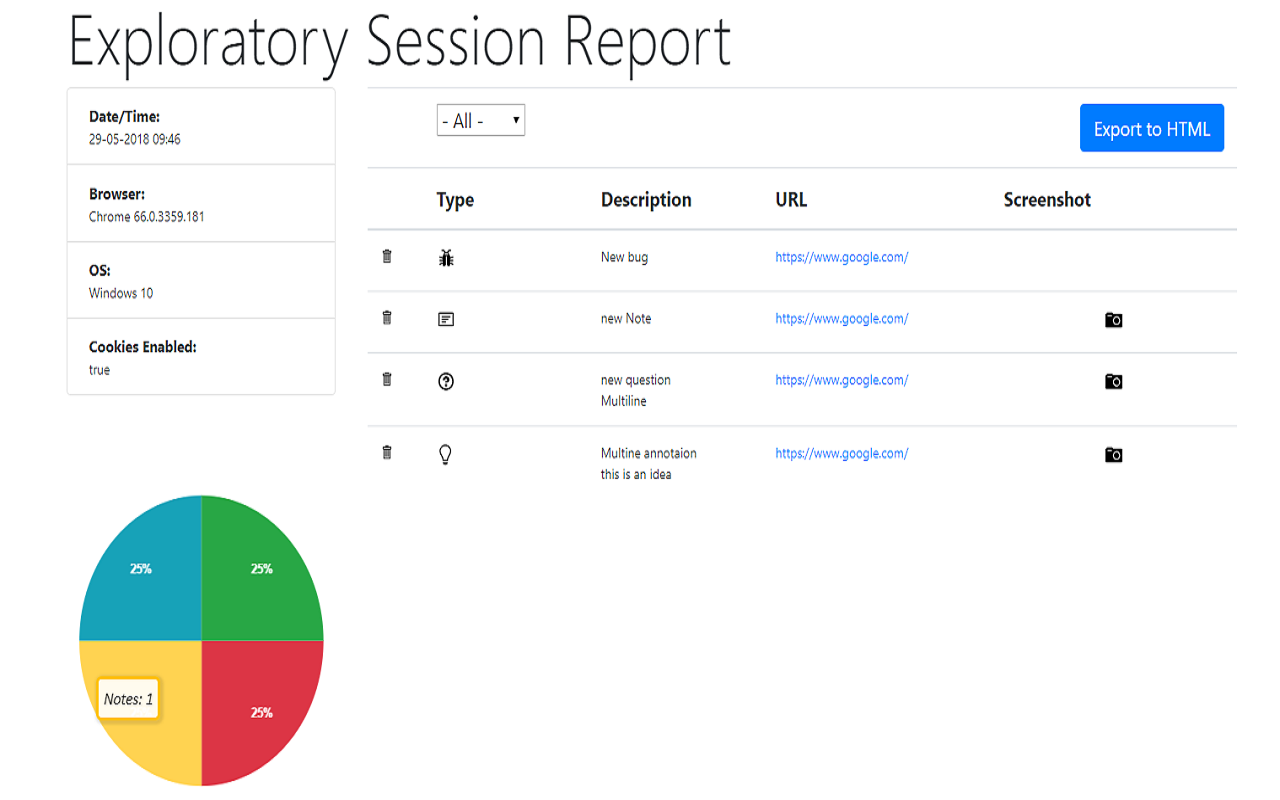
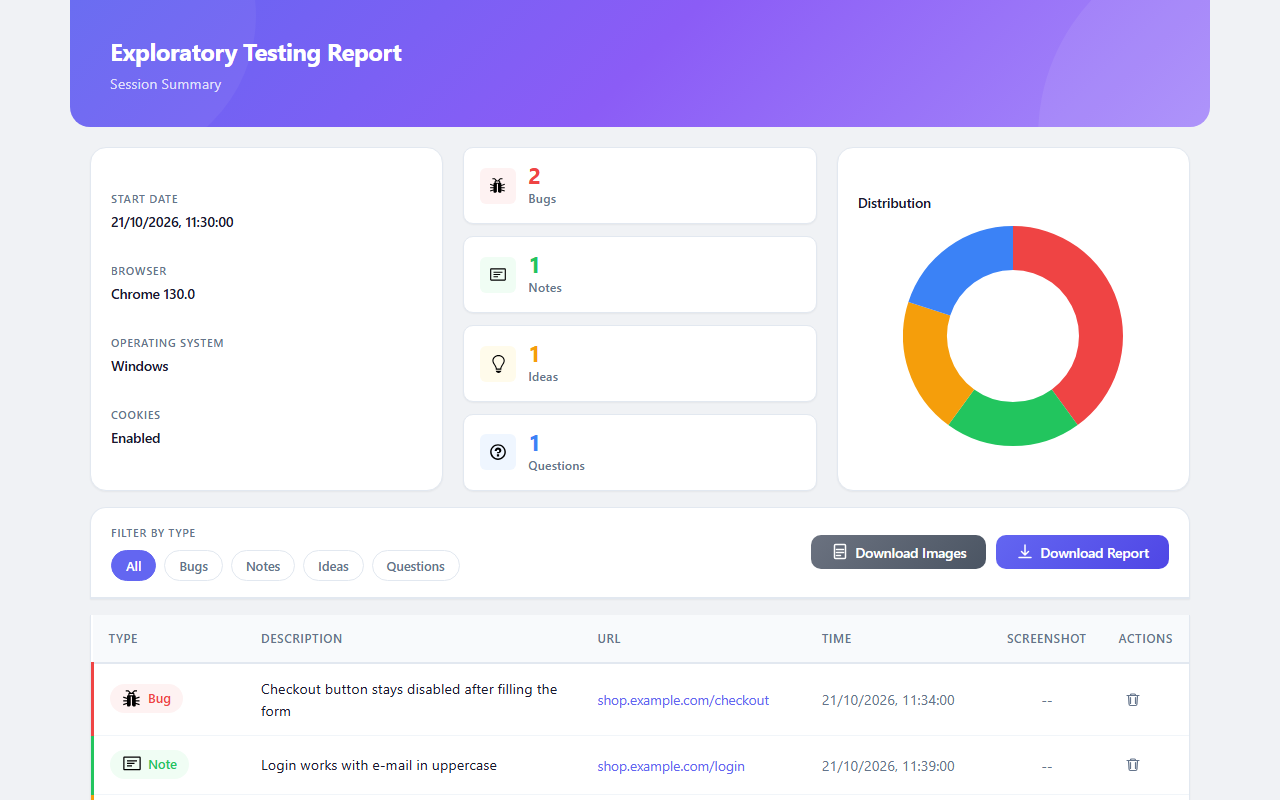
docs: document tutorial upkeep, refresh README and bump to 4.2.0
- AGENTS.md: add Tutorial section and the rule to update the tutorial
  whenever a user-facing feature changes; update definition of done.
- README: current feature list, refreshed screenshots, accurate dev
  and test instructions.
- Package tutorial.html in genetareZip.ps1 and add tutorial.spec.js to
  the e2e:all and e2e:ci scripts.
- Bump manifest version 4.1.1 -> 4.2.0 for the Web Store.

diff --git a/AGENTS.md b/AGENTS.md
@@ -56,6 +56,8 @@ HTMLReport/preview.html ── reads session ── renders stats, charts, filte
 | `manifest.json` | MV3 manifest. Permissions: `storage`, `tabs`, `activeTab`, `downloads`, `scripting`, `notifications` |
 | `background.js` | Service worker (`type: module`). Owns the `Session`, routes messages, saves to storage, triggers downloads, shows notifications |
 | `popup.html`, `js/popup.js` | Popup UI: annotation forms, counters, export/import/clear, open report |
+| `tutorial.html`, `js/tutorial.js`, `css/tutorial.css` | Interactive tutorial (Driver.js tour). Opened by the popup on first use and by the **?** help button. See [Tutorial](#tutorial) |
+| `lib/driverjs/` | Vendored Driver.js (pinned version in its `README.md`), loaded locally — never from a CDN |
 | `js/content_script.js` | Crop-area selection on the page; hosts the annotation editor iframe |
 | `js/annotation_editor.*` | Screenshot editor (arrow, rectangle, text, blur, undo). Talks to the content script via `postMessage` (`initAnnotationEditor`, `annotationComplete`, `annotationCancelled`) |
 | `src/Session.js` | Session model: browser info, start time, `annotations[]` |
@@ -94,6 +96,20 @@ Content script also sends `selectionCancelled` (not handled by background).
 - **Download Report** — single self-contained HTML, screenshots inlined as base64, must work offline.
 - **Download Images** — ZIP (JSZip) of screenshots named by type + timestamp, plus `README.txt`. Only offered in `preview.html`; deliberately omitted from downloaded reports to avoid Windows security warnings.
 
+## Tutorial
+
+`tutorial.html` is a guided tour of every user-facing feature: types of annotation, add with / without screenshot, crop with description and blur, report, export / import, and the **?** help button. It is shown automatically the first time the popup opens (`tutorialSeen` flag in the popup's `localStorage`) and reopened from the **?** button in `popup.html`.
+
+**Keep the tutorial in sync.** Whenever you add a user-facing feature or change an existing one (popup buttons or shortcuts, crop / editor tools, report, export / import, session behaviour), update the tutorial in the same change:
+
+1. `js/tutorial.js` — add, edit or remove the step. Steps target `[data-tour="..."]` elements; step text is English.
+2. `tutorial.html` — the popup mock mirrors the markup of `popup.html` (same classes and ids so `css/popUp.css` styles it); mirror UI changes there. Editor and report scenes are screenshots with transparent `.hotspot` boxes (percent positions) that Driver.js highlights.
+3. `images/tutorial/editor.png`, `images/tutorial/report.png` — regenerate when the editor or report UI changes, and re-check the hotspot positions. Use fake data only: no real URLs, names or customer content in screenshots.
+4. `test/e2e/tutorial.spec.js` — the tour test walks every step and requires each one to highlight an existing element, so a removed or renamed `data-tour` target fails it.
+5. If the change is user-visible, also refresh the README screenshots in `screenshots/` and the feature list.
+
+Rules for the tutorial code: no CDN and no remote code (the page makes no external requests; a test enforces it); keep the last step pointing at the help button; the mock is inert, so never load `js/popup.js` in `tutorial.html`.
+
 ## Testing
 
 ### Unit (Jest)
@@ -104,7 +120,8 @@ Content script also sends `selectionCancelled` (not handled by background).
 
 ### E2E (Playwright)
 
-- Specs in `test/e2e/*.spec.js`: `smoke`, `basic-functionality`, `reports-export`, `crop-screenshot`, `annotation-editor`. Shared setup in `test/e2e/helpers/extension-helper.js`; fixture pages in `test/e2e/test-pages/` (served at `http://localhost:8000/test/e2e/test-pages`).
+- Specs in `test/e2e/*.spec.js`: `smoke`, `basic-functionality`, `reports-export`, `crop-screenshot`, `annotation-editor`, `tutorial`. Shared setup in `test/e2e/helpers/extension-helper.js`; fixture pages in `test/e2e/test-pages/` (served at `http://localhost:8000/test/e2e/test-pages`).
+- `openExtensionPopup` marks the tutorial as seen (sets `tutorialSeen` in the extension's `localStorage`) so the first-run tutorial tab does not open during specs. Pass `{ firstRun: true }` to test the first-run behaviour.
 - Runs one worker, not parallel (extensions require a persistent Chromium context). Retries 2× on CI.
 - `npm run` scripts list spec files explicitly — **a new spec must be added to `test:e2e:all` and `test:e2e:ci` in `package.json`** or CI won't run it.
 - Prefer role / label / test-id selectors over CSS paths; use Playwright's auto-waiting assertions, never fixed sleeps.
@@ -139,8 +156,7 @@ If your agent supports these, use them:
 
 ## Gotchas
 
-- `genetareZip.ps1` (filename typo is real) packages an **allowlist** of runtime files (`manifest.json`, `background.js`, `popup.html`, `css`, `HTMLReport`, `icons`, `images`, `js`, `lib`, `src`). A new top-level runtime file or folder must be added to `$include`, or it will be missing from the store package.
-- `README.md` still claims `ExportSessionCSV.test.js` is broken — it now passes.
+- `genetareZip.ps1` (filename typo is real) packages an **allowlist** of runtime files (`manifest.json`, `background.js`, `popup.html`, `tutorial.html`, `css`, `HTMLReport`, `icons`, `images`, `js`, `lib`, `src`). A new top-level runtime file or folder must be added to `$include`, or it will be missing from the store package.
 
 ## Definition of done
 
@@ -148,4 +164,5 @@ If your agent supports these, use them:
 2. Relevant E2E specs pass (`npm run test:e2e:all` for UI / message-flow changes).
 3. New `chrome.*` calls are mocked in `jest.setup.js`; new specs are wired into `package.json`.
 4. Extension reloaded and the change checked manually in Chrome when it affects UI.
-5. This file updated if architecture, commands or conventions changed.
+5. The tutorial (`js/tutorial.js`, `tutorial.html`, images) and README features / screenshots updated if the change is user-visible.
+6. This file updated if architecture, commands or conventions changed.

diff --git a/README.md b/README.md
@@ -1,28 +1,38 @@
 # A Chrome Extension for Exploratory Testing
 
-A Chrome extension designed for making web exploratory testing easier
-
-**Features**
-
- - Report bugs, ideas, notes and questions easily
- - Take screenshots during the session. Keep focused 
- - URL will be tracked automatically
- - See session results in a report
- - Export and import sessions
- - Export session to JSON, CSV or HTML
-
+A Chrome extension designed for making web exploratory testing easier. Record what you find while you explore a web page, with the URL and a screenshot attached, and review the whole session in a report.
 
 Install from [Chrome Store](https://chrome.google.com/webstore/detail/exploratory-testing-chrom/khigmghadjljgjpamimgjjmpmlbgmekj)
 
+## Features
 
-**Annotate any thought while you test easily and take screenshots without changing context**
+- **Four annotation types**: Bugs, Notes, Questions and Ideas, each with a counter in the popup.
+- **Screenshots without changing context**: add an annotation with no screenshot, with a screenshot of the visible tab, or with a cropped area of the page.
+- **Annotation editor for cropped screenshots**: arrow, rectangle, text and **blur** (to hide sensitive data), with undo and keyboard shortcuts.
+- **Automatic tracking**: the URL, time and browser information are saved with every annotation.
+- **Session report**: statistics per type, distribution chart, filter by type, annotations table and delete.
+- **Download the report** as a standalone HTML file that works offline, or all screenshots as a ZIP.
+- **Export and import sessions**: export to JSON or CSV, and import a JSON session to continue it later.
+- **Interactive tutorial**: a guided tour that opens the first time you use the extension and can be reopened from the **?** button.
+- **Keyboard shortcuts** in the description box: `Ctrl + Enter` adds the annotation, `Shift + Enter` adds it with a screenshot.
 
-<img src="./screenshots/new_Annotation.PNG" width="440">
+## Screenshots
 
+**Annotate any thought while you test and take screenshots without changing context**
+
+<img src="./screenshots/popup.png" width="400" alt="Extension popup with a Bug form open">
+
+**Crop, annotate and blur the screenshot**
+
+<img src="./screenshots/editor.png" width="800" alt="Annotation editor with a rectangle, an arrow and a blurred area">
 
 **View session results in a report**
 
-<img src="./screenshots/report.PNG" width="800">
+<img src="./screenshots/report.png" width="800" alt="Session report with statistics, chart and annotations table">
+
+**Learn the features with the built-in tutorial**
+
+<img src="./screenshots/tutorial.png" width="800" alt="Interactive tutorial highlighting the crop button">
 
 ## Tutorial
 
@@ -32,37 +42,35 @@ The tour is built with [Driver.js](https://driverjs.com/), bundled in `lib/drive
 
 ## Development and Testing
 
-This section provides instructions for setting up the project locally for development and running tests.
+Plain JavaScript, no bundler and no runtime npm dependencies: the repository root is the extension. [AGENTS.md](./AGENTS.md) has the architecture, conventions and the full list of commands.
 
 ### Project Setup
 
-1.  **Prerequisites**: Ensure you have [Node.js](https://nodejs.org/) installed (which includes npm).
-2.  **Clone the Repository**:
-    ```bash
-    git clone https://github.com/your-username/your-repo-name.git
-    cd your-repo-name
-    ```
-    *(Using a common placeholder format for the repo URL. The user can update this if they wish).*
-3.  **Install Dependencies**:
-    ```bash
-    npm install
-    ```
-    This will install Jest, Babel, and other necessary development dependencies as defined in `package.json`.
+1. **Prerequisites**: [Node.js](https://nodejs.org/) 20 (includes npm).
+2. **Clone the repository**:
+   ```bash
+   git clone https://github.com/morvader/ExploratoryTestingChromeExtension.git
+   cd ExploratoryTestingChromeExtension
+   ```
+3. **Install development dependencies** (Jest, Playwright):
+   ```bash
+   npm install
+   npx playwright install chromium
+   ```
+4. **Load the extension**: open `chrome://extensions`, enable *Developer mode*, choose *Load unpacked* and select the repository folder.
 
 ### Running Tests
 
-The project uses [Jest](https://jestjs.io/) for unit testing.
+| Command | What it runs |
+|---------|--------------|
+| `npm test` | Jest unit tests (`test/spec/`) |
+| `npm run test:e2e` | Playwright smoke and basic functionality |
+| `npm run test:e2e:all` | Full Playwright suite (same as CI) |
+| `npm run test:all` | Unit tests plus the full E2E suite |
 
-1.  **Execute Tests**:
-    ```bash
-    npm test
-    ```
-    Alternatively, you can run Jest directly:
-    ```bash
-    npx jest
-    ```
-2.  **Test Results**: Most tests should pass.
-    *   **Known Issue**: The test suite for `test/spec/ExportSessionCSV.test.js` is currently non-functional due to a syntax error that occurred during the migration to Jest and could not be resolved with available tools. This specific suite will fail or be skipped. All other test suites should pass.
+### Release package
+
+On Windows, `.\genetareZip.ps1` creates `ETExtension-<timestamp>.zip` with the runtime files only, ready to upload to the Chrome Web Store.
 
 ---
 _PS: I'm not a web designer, so any help with web design or UX will be appreciated._
